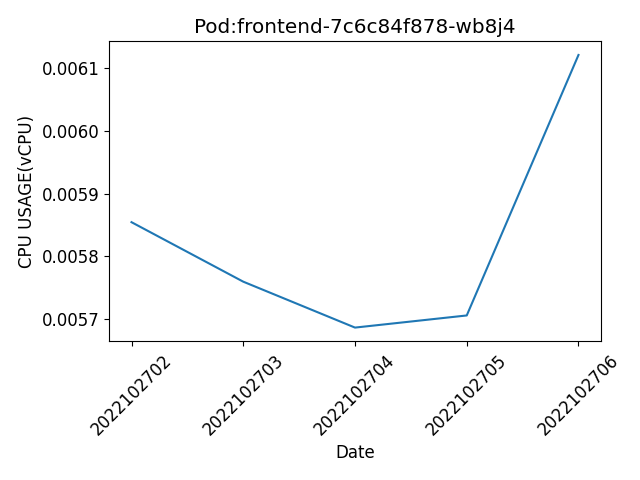
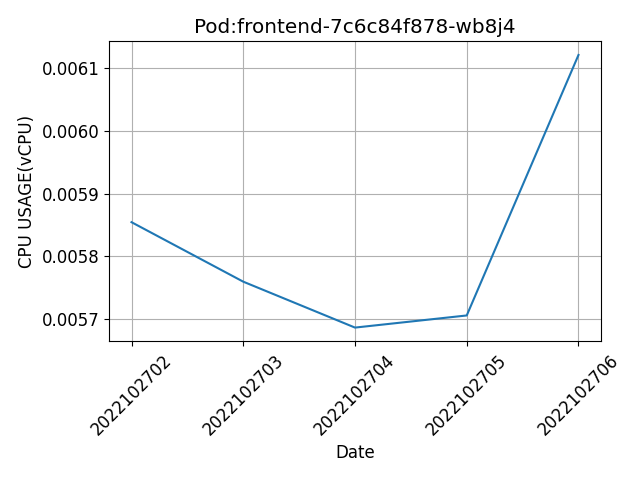
最終更新

diff --git a/functions.py b/functions.py
@@ -111,6 +111,7 @@ def data(csv):
         ax.set_xlabel("Date")
         ax.set_ylabel("CPU USAGE(vCPU)")
         plt.tight_layout()
+        plt.grid()
         plt.show()
         plt.savefig(f"./static/images/graph{i}.png")
     
